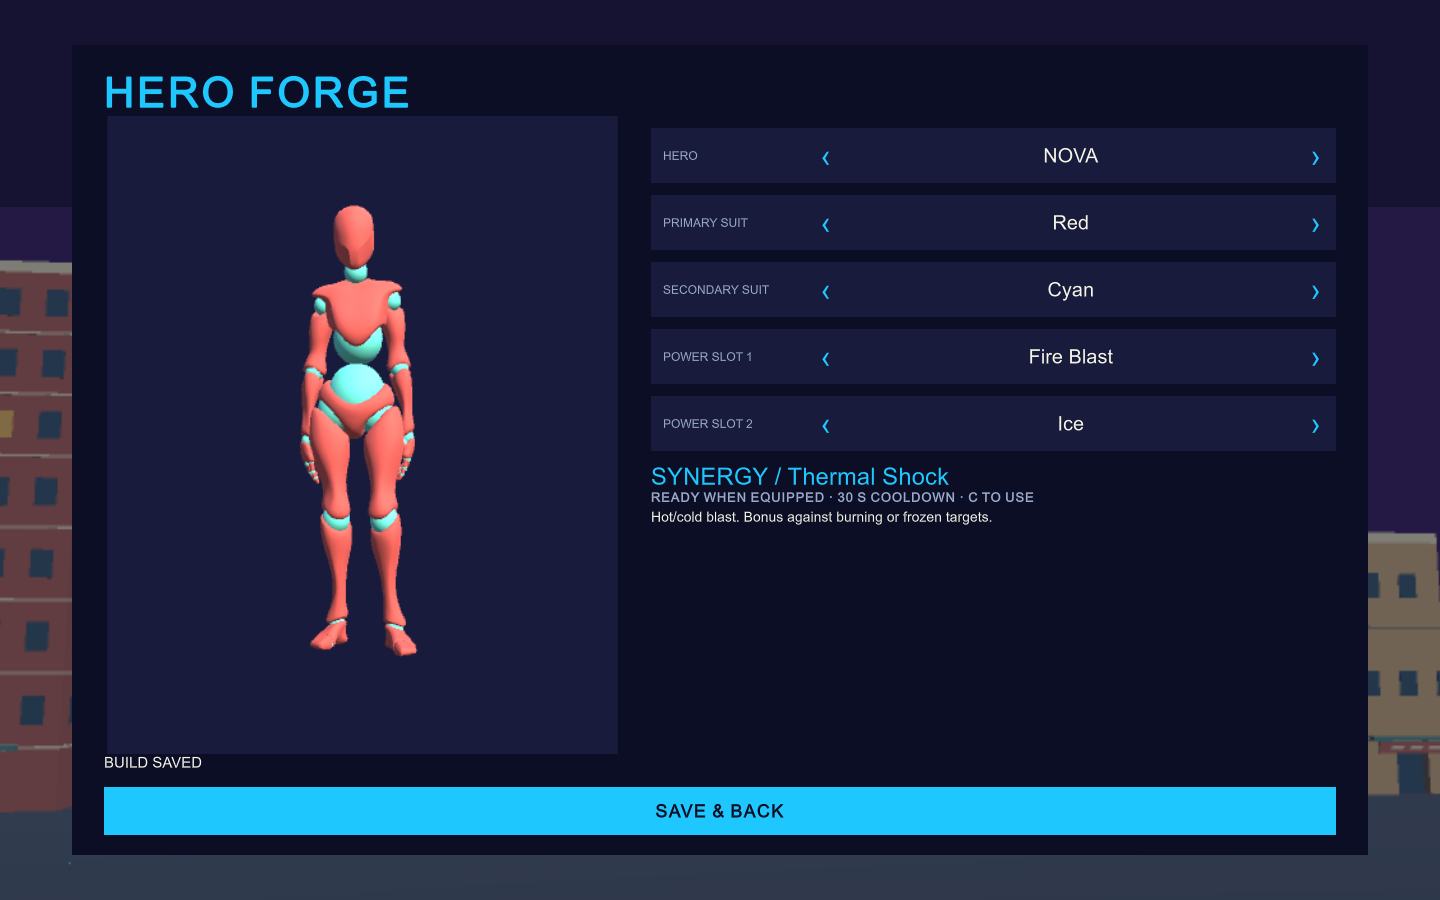
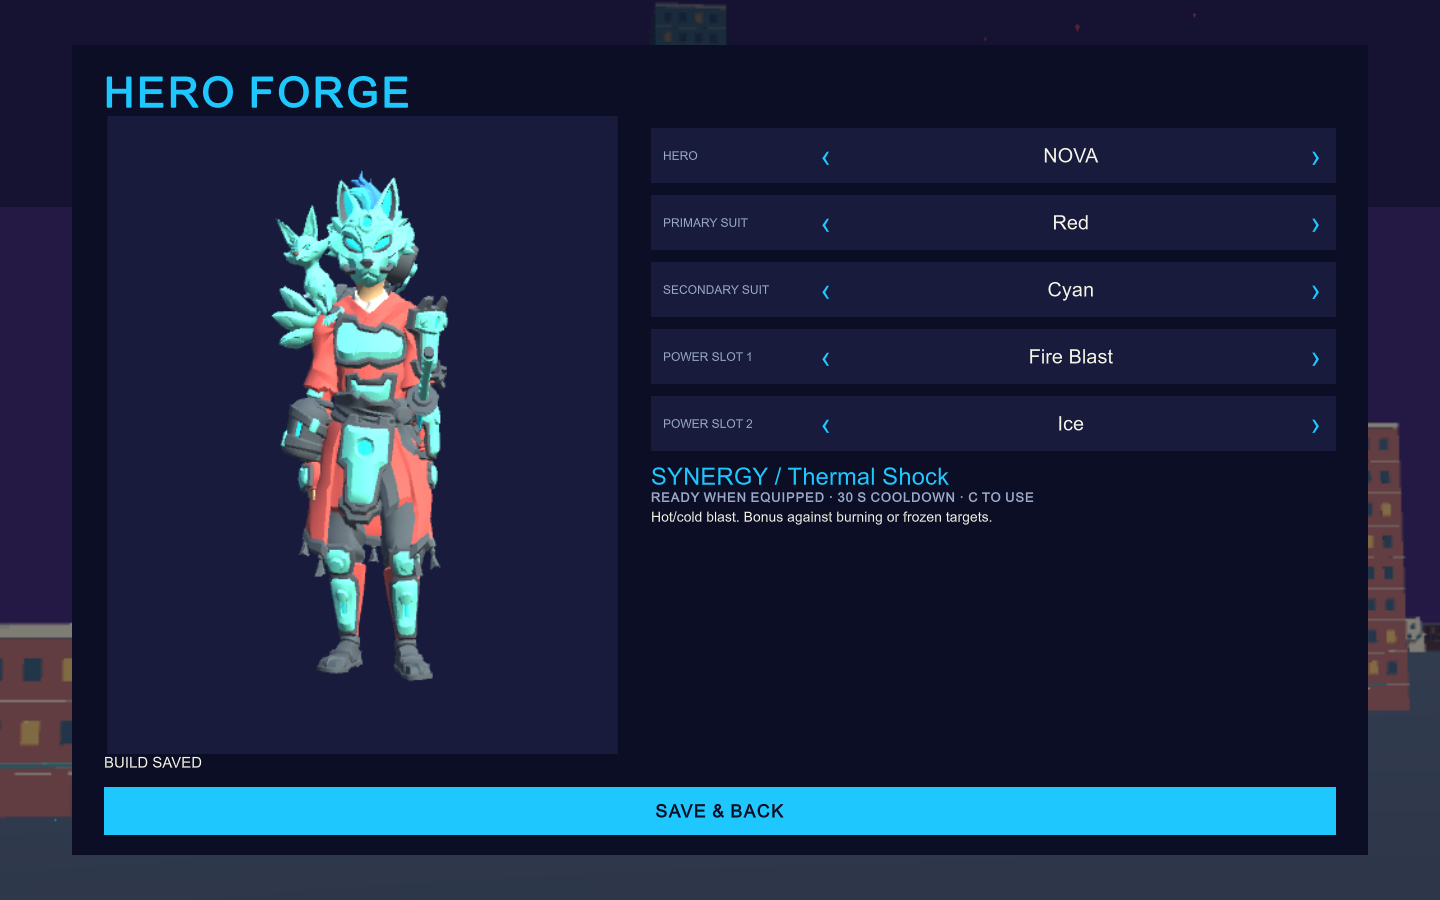
Add Cinemachine hero reveal to the Forge
Each successful Forge save plays a 0.85 s orbit of the preview hero
(heading -28 -> +18 deg, settling on the front view). A CinemachineCamera
(Follow LockToTarget + RotationComposer, zero damping) drives only the
disabled Forge preview camera through a ManualUpdate, time-scale-independent
CinemachineBrain; the render texture is refreshed only while the reveal runs.
The form stays interactive and no gameplay or first-person camera is touched.

HeroForge verifies the reveal starts on save, orbits (-28.0 -> 17.6 deg,
camera moved up to 2.03 m, 130 frames) and settles at heading 0 without
blocking navigation; start/peak captures added. HeroForge Run 137 PASS,
Reload 3 PASS.

diff --git a/Assets/Scripts/Forge/HeroForgeScreen.cs b/Assets/Scripts/Forge/HeroForgeScreen.cs
@@ -1,5 +1,6 @@
 using System;
 using System.Linq;
+using Unity.Cinemachine;
 using UnityEngine;
 using UnityEngine.UIElements;
 
@@ -16,6 +17,13 @@ public sealed class HeroForgeScreen : MonoBehaviour
     public GameObject PreviewModel {get;private set;}
     ModeScreens menu;ForgeCatalog catalog;HeroDefinition hero;PowerDefinition a,b;
     CityColor primary,secondary;CityPalette palette;GameObject previewRoot;bool rebuilding;
+    Camera previewCamera;CinemachineBrain revealBrain;Transform orbitPivot;float revealStarted;bool revealActive;
+    public bool RevealActive=>revealActive;
+    public int RevealFrames {get;private set;}
+    /// Orbit heading (degrees about the hero) of the last rendered reveal frame; 0 is the settled front view.
+    public float RevealHeading {get;private set;}
+    public bool HasCinemachinePreview=>revealBrain!=null;
+    public Vector3 RevealCameraPosition=>previewCamera!=null?previewCamera.transform.position:Vector3.zero;
     VisualElement form;Label feedback;
     Color C(CityColor role)=>palette.Colors[(int)role];
     public void Initialize(ModeScreens owner)
@@ -38,7 +46,7 @@ public sealed class HeroForgeScreen : MonoBehaviour
         var saved=menu.Profile.Data.Loadout;hero=catalog.Hero(saved.HeroId);a=menu.Profile.EquippedA;b=menu.Profile.EquippedB;primary=saved.Primary;secondary=saved.Secondary;
         Root.style.display=DisplayStyle.Flex;Rebuild();Capture();
     }
-    public void Close(){Root.style.display=DisplayStyle.None;}
+    public void Close(){Root.style.display=DisplayStyle.None;revealActive=false;}
     public bool SelectHero(HeroDefinition value)
     {
         if(Array.IndexOf(catalog.Heroes,value)<0)return false;
@@ -59,7 +67,7 @@ public sealed class HeroForgeScreen : MonoBehaviour
     bool Save()
     {
         bool ok=menu.Profile.SetLoadout(hero,a,b,primary,secondary);
-        if(ok){feedback.text="BUILD SAVED";Rebuild();Capture();}else feedback.text="Choose two different powers.";
+        if(ok){feedback.text="BUILD SAVED";Rebuild();Capture();BeginReveal();}else feedback.text="Choose two different powers.";
         return ok;
     }
     ForgeChoice Dropdown(string title,string[] values,int selected,Action<int> changed)
@@ -116,13 +124,33 @@ public sealed class HeroForgeScreen : MonoBehaviour
         }
         foreach(var node in previewRoot.GetComponentsInChildren<Transform>())node.gameObject.layer=30;
         var camera=new GameObject("Forge preview camera").AddComponent<Camera>();camera.transform.SetParent(previewRoot.transform,false);camera.enabled=false;camera.cullingMask=1<<30;
-        camera.clearFlags=CameraClearFlags.SolidColor;camera.backgroundColor=C(CityColor.UiPanel);camera.fieldOfView=32;camera.targetTexture=Preview;
+        camera.clearFlags=CameraClearFlags.SolidColor;camera.backgroundColor=C(CityColor.UiPanel);camera.fieldOfView=32;camera.targetTexture=Preview;previewCamera=camera;
         bounds=Posed();
         camera.transform.position=bounds.center+new Vector3(0,.1f,4.2f);camera.transform.LookAt(bounds.center);
+        var pivot=new GameObject("Forge orbit pivot").transform;pivot.SetParent(previewRoot.transform,false);pivot.position=bounds.center;orbitPivot=pivot;
+        var focus=new GameObject("Forge reveal focus").transform;focus.SetParent(previewRoot.transform,false);focus.position=bounds.center;
+        var virtualCamera=new GameObject("Forge Cinemachine reveal").AddComponent<CinemachineCamera>();virtualCamera.transform.SetParent(previewRoot.transform,false);
+        virtualCamera.Follow=pivot;virtualCamera.LookAt=focus;
+        var lens=virtualCamera.Lens;lens.FieldOfView=32;virtualCamera.Lens=lens;
+        var track=virtualCamera.gameObject.AddComponent<CinemachineFollow>();track.FollowOffset=new Vector3(0,.1f,4.2f);
+        var tracking=track.TrackerSettings;tracking.BindingMode=Unity.Cinemachine.TargetTracking.BindingMode.LockToTarget;tracking.PositionDamping=Vector3.zero;tracking.RotationDamping=Vector3.zero;track.TrackerSettings=tracking;
+        var aim=virtualCamera.gameObject.AddComponent<CinemachineRotationComposer>();aim.Damping=Vector2.zero;
+        revealBrain=camera.gameObject.AddComponent<CinemachineBrain>();revealBrain.UpdateMethod=CinemachineBrain.UpdateMethods.ManualUpdate;revealBrain.IgnoreTimeScale=true;
         var sun=new GameObject("Forge preview light").AddComponent<Light>();sun.transform.SetParent(previewRoot.transform,false);sun.type=LightType.Directional;sun.cullingMask=1<<30;sun.intensity=1.4f;sun.color=C(CityColor.Cream);sun.transform.rotation=Quaternion.Euler(35,150,0);
         camera.Render();camera.targetTexture=null;
         // No preview animation/camera work per frame while home gameplay cards are shown.
         animator.enabled=false;
+    }
+    void BeginReveal(){revealStarted=Time.unscaledTime;revealActive=true;RevealFrames=0;}
+    void LateUpdate()
+    {
+        if(!revealActive||previewCamera==null||revealBrain==null||Root.style.display==DisplayStyle.None)return;
+        float t=Mathf.Clamp01((Time.unscaledTime-revealStarted)/.85f);
+        // Quick orbit and settle. The Forge form stays interactive throughout; no gameplay camera is touched.
+        float heading=t<.7f?Mathf.Lerp(-28,18,Mathf.SmoothStep(0,1,t/.7f)):Mathf.Lerp(18,0,Mathf.SmoothStep(0,1,(t-.7f)/.3f));
+        orbitPivot.rotation=Quaternion.Euler(0,heading,0);RevealHeading=heading;
+        revealBrain.ManualUpdate();previewCamera.targetTexture=Preview;previewCamera.Render();previewCamera.targetTexture=null;RevealFrames++;
+        if(t>=1)revealActive=false;
     }
     void OnDestroy(){if(Preview!=null){Preview.Release();Destroy(Preview);}if(previewRoot!=null)Destroy(previewRoot);}
 }

diff --git a/Assets/Scripts/Forge/HeroForgeVerificationRunner.cs b/Assets/Scripts/Forge/HeroForgeVerificationRunner.cs
@@ -80,6 +80,16 @@ public sealed class HeroForgeVerificationRunner : MonoBehaviour
         Check(screen.SelectPower(0,Power("ice"))&&menu.Profile.EquippedA!=menu.Profile.EquippedB,"Slot 1 collision repairs slot 2 immediately.");
         Check(!screen.SlotB.choices.Contains(Power("ice").DisplayName),"Slot 2 UI excludes duplicate.");
         Check(screen.SelectPower(0,Power("fire"))&&screen.SelectPower(1,Power("ice")),"Select Fire + Ice.");
+        Check(screen.HasCinemachinePreview&&screen.RevealActive,"Successful Forge save starts the Cinemachine preview reveal without blocking the form.");
+        Vector3 revealStart=screen.RevealCameraPosition;yield return null;
+        float startHeading=screen.RevealHeading,farthest=(screen.RevealCameraPosition-revealStart).magnitude;Capture(screen.Preview,"forge-reveal-start.png");
+        float revealUntil=Time.realtimeSinceStartup+.7f;
+        while(screen.RevealActive&&screen.RevealHeading<17.5f&&Time.realtimeSinceStartup<revealUntil){farthest=Mathf.Max(farthest,(screen.RevealCameraPosition-revealStart).magnitude);yield return null;}
+        float peakHeading=screen.RevealHeading;Capture(screen.Preview,"forge-reveal-peak.png");
+        Check(screen.RevealFrames>2&&farthest>.05f&&startHeading<-20&&peakHeading>15,
+            $"Cinemachine preview camera actually orbits the selected hero (heading {startHeading:F1} -> {peakHeading:F1} deg, camera moved up to {farthest:F2} m, {screen.RevealFrames} frames).");
+        yield return new WaitForSecondsRealtime(.8f);
+        Check(!screen.RevealActive&&Mathf.Abs(screen.RevealHeading)<.01f,"Short Forge reveal settles on the front view (heading 0) without delaying navigation.");
         Check(F.Resolve(Power("flight"),Power("strength"))==F.Resolve(Power("strength"),Power("flight")),"Pair lookup is order-independent.");
         Capture(screen.Preview,"forge-preview.png");
         yield return CaptureMenu(menu);

diff --git a/docs/hero-forge.md b/docs/hero-forge.md
@@ -4,6 +4,10 @@ Start at Home and choose **Hero Forge / Select Hero**. Previous/next buttons cho
 hero, two palette suit colors and two distinct unlocked powers. Changes save immediately
 through PlayerProgression's existing atomic JSON save. Save & Back returns to the
 unchanged mode cards. The same loadout is read by every mode that uses BuildCity.
+Each successful save plays a 0.85 s Cinemachine reveal of the preview (orbit from -28 to
++18 degrees, settling on the front view). Only the Forge preview camera carries a
+`CinemachineBrain` (manual update, unscaled time); the form stays interactive throughout
+and the gameplay/first-person cameras are not Cinemachine-driven.
 
 ## Controls and progression
 
